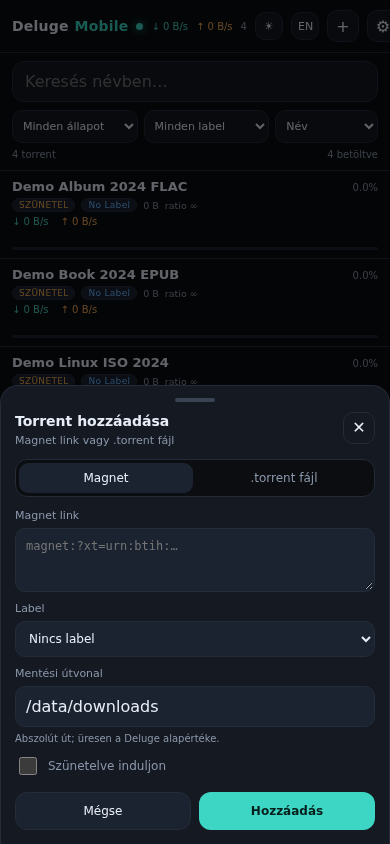
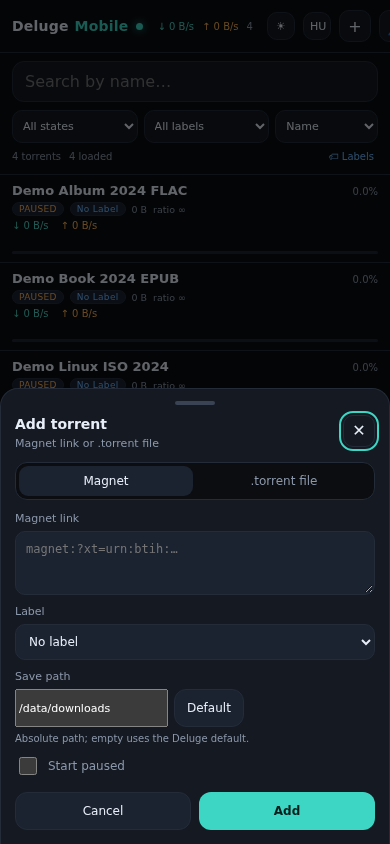
docs: add the mobile usage guide with screenshots

diff --git a/docs/usage.md b/docs/usage.md
@@ -1,0 +1,158 @@
+# Mobile usage guide
+
+This guide is for everyday use on a phone. The same controls work with a mouse
+on desktop. The screenshots use demo torrents from `scripts/dev-daemon.sh`.
+
+## Open and sign in
+
+Open `https://<deluge-host>:8113/` in the browser. The login screen depends on
+the deployment:
+
+- **Token:** paste the plugin/API token. The token is remembered in the
+  browser's local storage.
+- **Username/password:** use your Deluge account. The session expires after 30
+  days and can be revoked from the account panel.
+- **Both:** either method works.
+
+On Android you can install the page as a PWA from the browser menu ("Add to
+Home screen"). The installed app gets the share target and a standalone window.
+
+## The torrent list
+
+![Torrent list](assets/screenshot-list.png)
+
+1. **Session stats** – tap the `↓ / ↑ / torrent count` button to open the
+   session sheet (free space, rates, limits, notifications).
+2. **Theme / language** – switch dark/light and HU/EN.
+3. **Add torrent** – opens the add sheet.
+4. **Account** – the person icon opens the account panel (login/logout), not
+   the settings.
+5. **Search** – filters by name; the list reloads after a short debounce.
+6. **State / label / sort** – server-side filters; the chosen values stay in
+   the URL/state while the page is open.
+7. **Labels** – manage labels (see below).
+
+The list is virtualized: scrolling loads the next page automatically. The
+counter shows how many torrents are loaded and the total.
+
+### Tap and long-press
+
+- **Tap a torrent** – opens the details.
+- **Long-press a torrent (about 0.5 s)** – enters selection mode. A tap after
+  that selects/deselects rows.
+- **Selection bar** – appears at the bottom: pause, resume, label, remove and
+  "All" (select every torrent matching the current filters, max 1000).
+- **Cancel** – the `✕` button leaves selection mode.
+
+![Selection mode](assets/usage-selection.png)
+
+The long-press also works with the left mouse button on desktop. A normal click
+is not treated as a long-press.
+
+## Torrent details
+
+![Torrent details](assets/screenshot-detail.png)
+
+The detail is intentionally compact:
+
+- **Progress** – percentage, downloaded/total, state message.
+- **Primary stats** – download, upload and ETA.
+- **Secondary line** – ratio, peers, seeds, size, added date.
+- **Tracker bar** – when the torrent has trackers, the bar shows the tracker
+  host, status and count. Tap it to expand the full URL list; the reannounce
+  button is next to it.
+- **Save path** – the current download location. The **Move** button opens the
+  move panel.
+- **Copy magnet / Copy infohash** – copies to the clipboard.
+- **Resume/Pause** – changes the torrent state.
+- **Queue** – move to top, up, down or bottom of the queue.
+- **Label** – choose a label and save.
+- **Speed limits** – per-torrent KiB/s; `-1` uses the global value, `0` means
+  unlimited.
+- **Files** – when metadata is available, each file has a download checkbox
+  and an "Only this" action. The search box filters the loaded pages.
+- **Remove** – optionally deletes the downloaded data; a confirmation is
+  required.
+
+The detail updates live over SSE while it is open. Closing it returns to the
+list without losing the filters.
+
+### Move a torrent
+
+Tap **Move** next to the save path, enter an absolute destination and confirm.
+
+- The files are actually moved on disk by Deluge (`move_storage`), not just the
+  save path.
+- The torrent enters `Moving` state; the list/detail follows the state through
+  SSE.
+- The destination must be an absolute path and needs enough free space.
+- A torrent that is already moving cannot be moved again.
+
+## Add a torrent
+
+![Add torrent](assets/screenshot-add.png)
+
+- **Magnet / torrent file** – switch between the two tabs.
+- **Label** – optional; "No label" leaves it unlabeled.
+- **Save path** – absolute path. The **Default** button restores the session
+  default. The last used path and label are remembered locally.
+- **Start paused** – adds the torrent without starting it.
+
+The sheet validates the input and shows the backend error message for an
+invalid magnet, file or path.
+
+## Session sheet
+
+![Session sheet](assets/usage-session.png)
+
+Open it from the header stats. It contains:
+
+- free space, torrent count, current download/upload rates;
+- a 60-second speed sparkline;
+- global speed limits (KiB/s), with **Night mode** and **Unlimited** presets;
+- **Notifications** – enable/disable Web Push for this browser;
+- **Pause all / Resume all** – session-wide controls.
+
+### Web Push
+
+Push needs HTTPS (secure context) and a push-capable browser. Tap **Enable**,
+allow notifications, and the browser subscribes. Notifications are sent when a
+torrent finishes or enters the `Error` state. Tapping a notification opens the
+torrent detail via `/?torrent=<id>`. The setting is per browser/device; the
+server stores up to 20 subscriptions.
+
+If notifications are blocked, the sheet explains how to allow them; on plain
+HTTP the button reports that HTTPS is required.
+
+## Labels
+
+![Labels](assets/usage-labels.png)
+
+Open **Labels** from the filter bar. The sheet lists labels with torrent
+counts, allows deleting a label (its torrents move to "No label") and creating
+a new one. Label IDs are lowercase `a-z0-9_-`.
+
+## Share from Android
+
+With the installed PWA, use Android's share menu and choose **Deluge Mobile**.
+A shared magnet link opens the add sheet with the link pre-filled. This works
+from browsers and apps that support Android share targets.
+
+## Errors and offline mode
+
+- A red **Error** badge on a row means the torrent is in `Error` state; the
+  tooltip/message contains the tracker or Deluge error.
+- Use the **Error** state filter to show only failed torrents.
+- When the connection drops, an offline banner appears and SSE reconnects
+  automatically. The list/detail keep the last known values.
+- A 401 response returns to the login screen; 403 means the account is
+  read-only (mutating controls are hidden).
+
+## Limits and tips
+
+- Bulk operations work on at most 1000 torrent IDs.
+- File lists are loaded in pages of 100 (max 500 per request); "More files"
+  loads the next page.
+- The detail is the place for per-torrent actions; the list is optimized for
+  scanning and selection.
+- The stock `deluge-web` on 8112 is untouched; this UI is independent.
